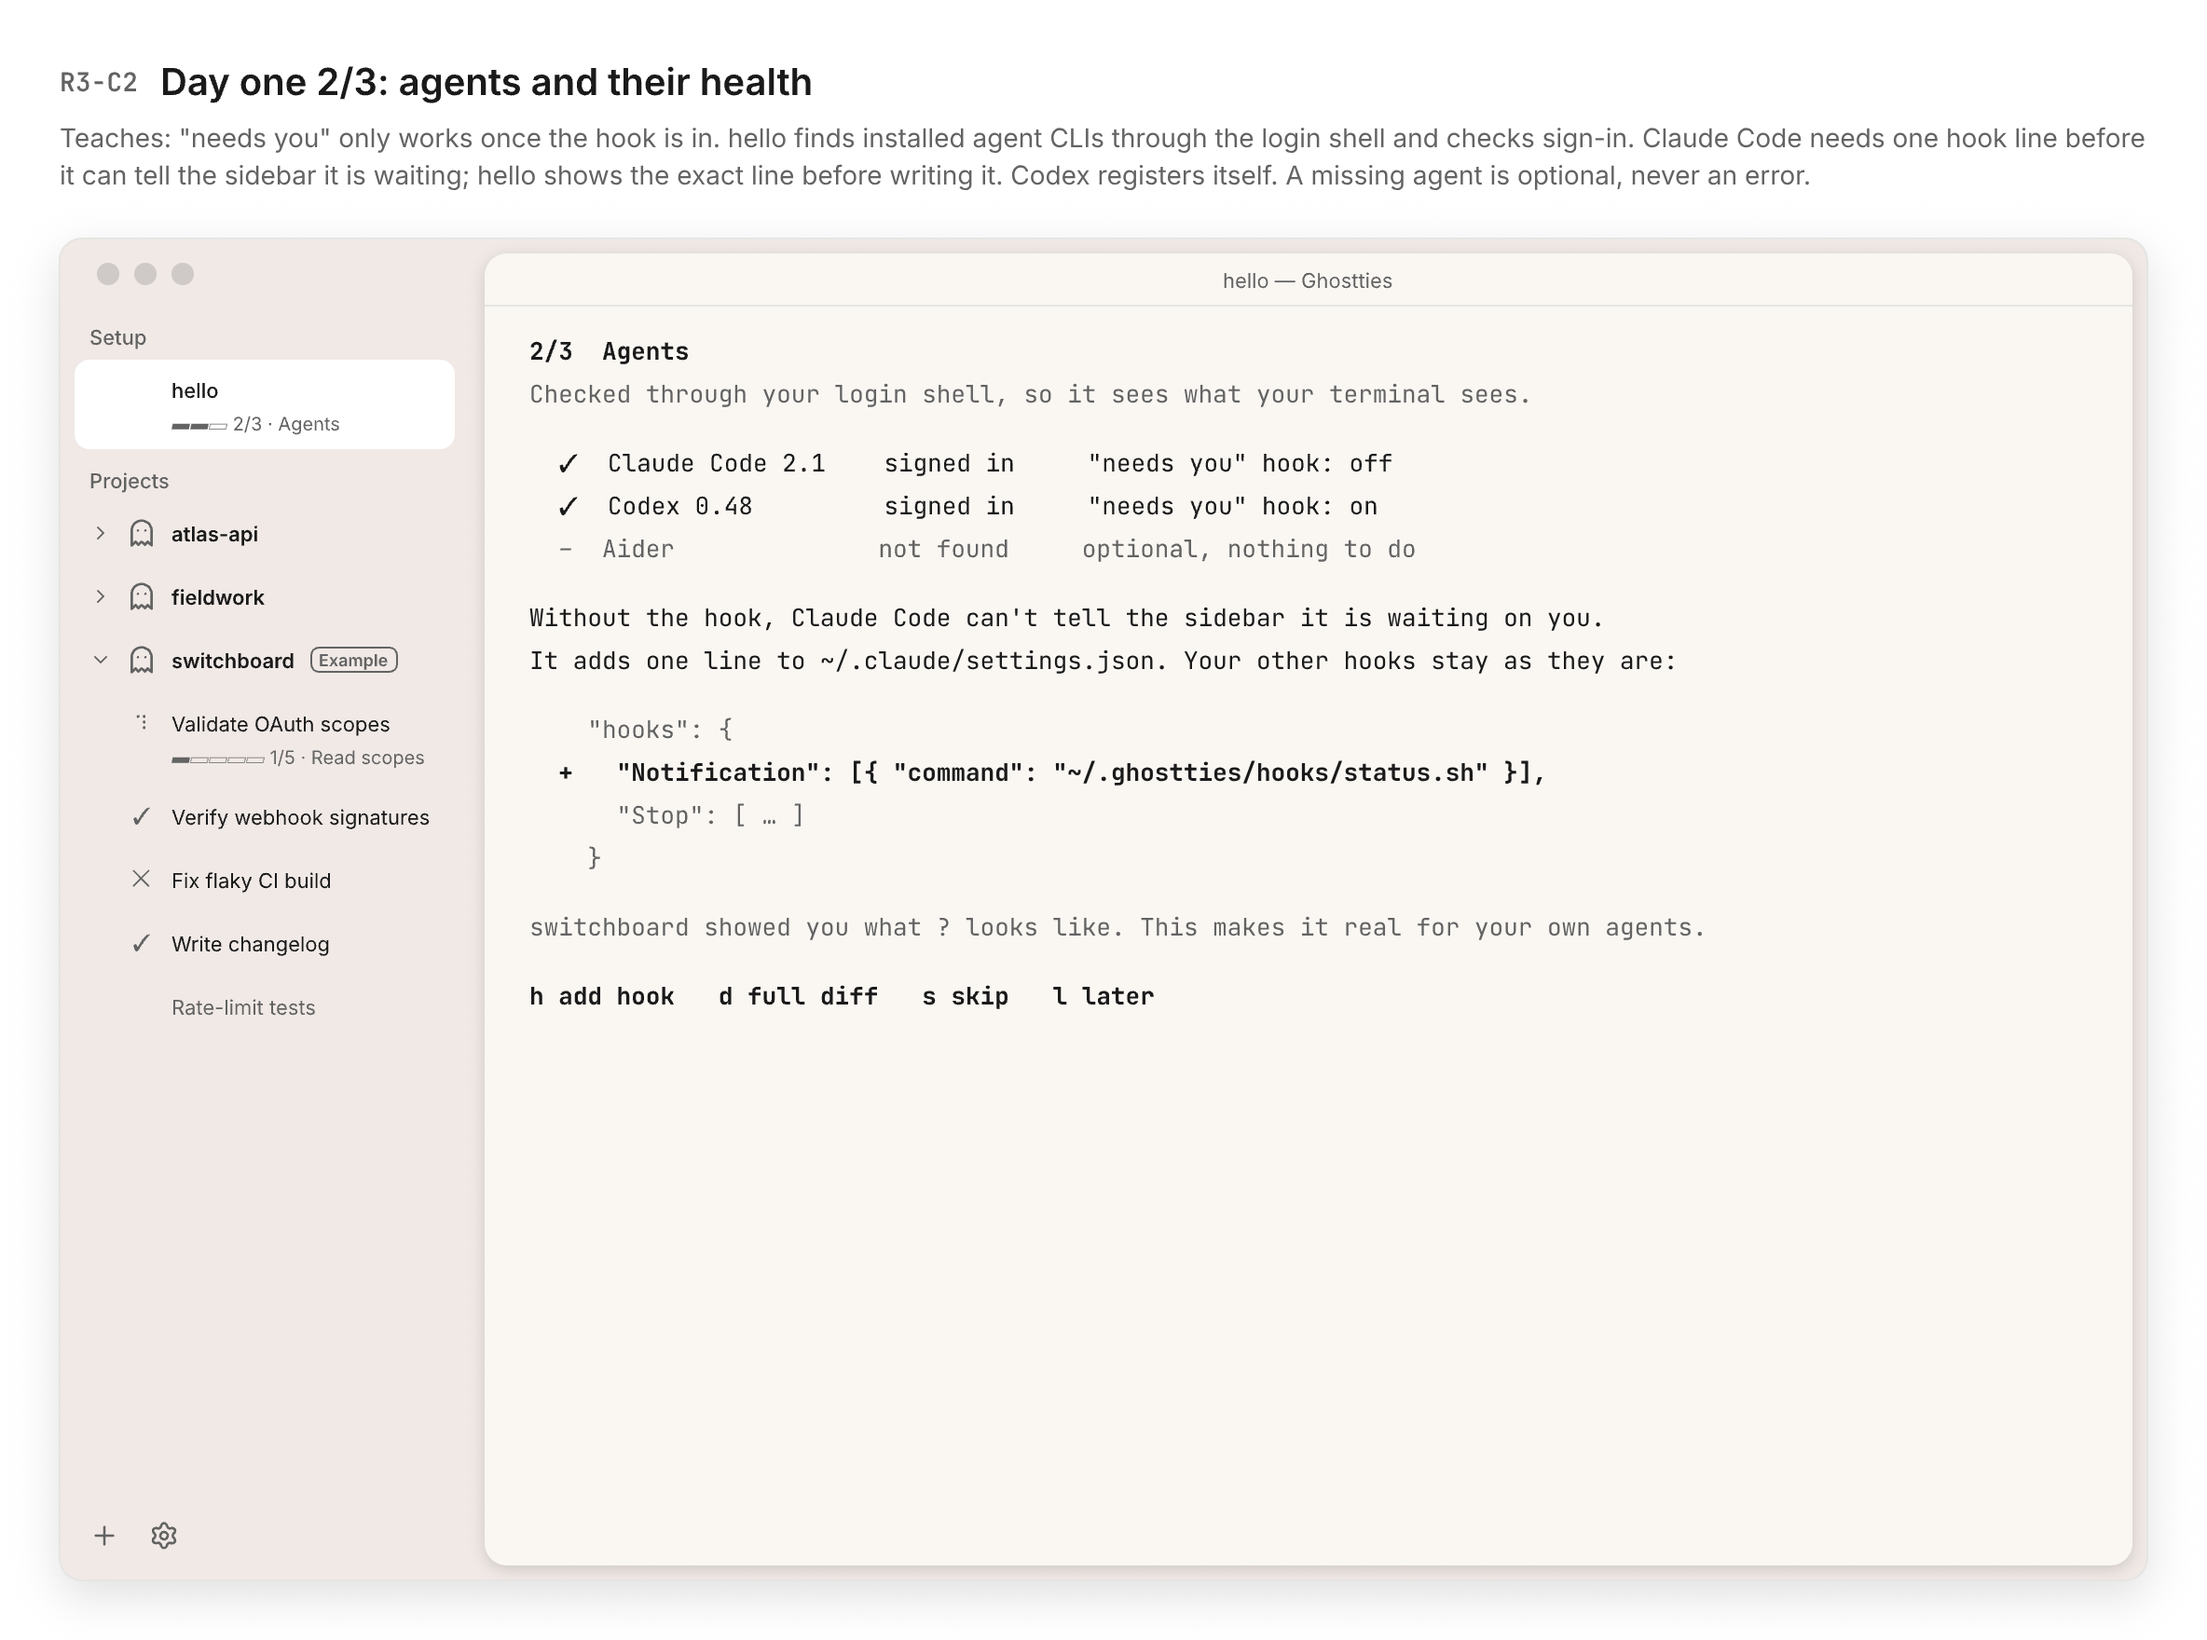
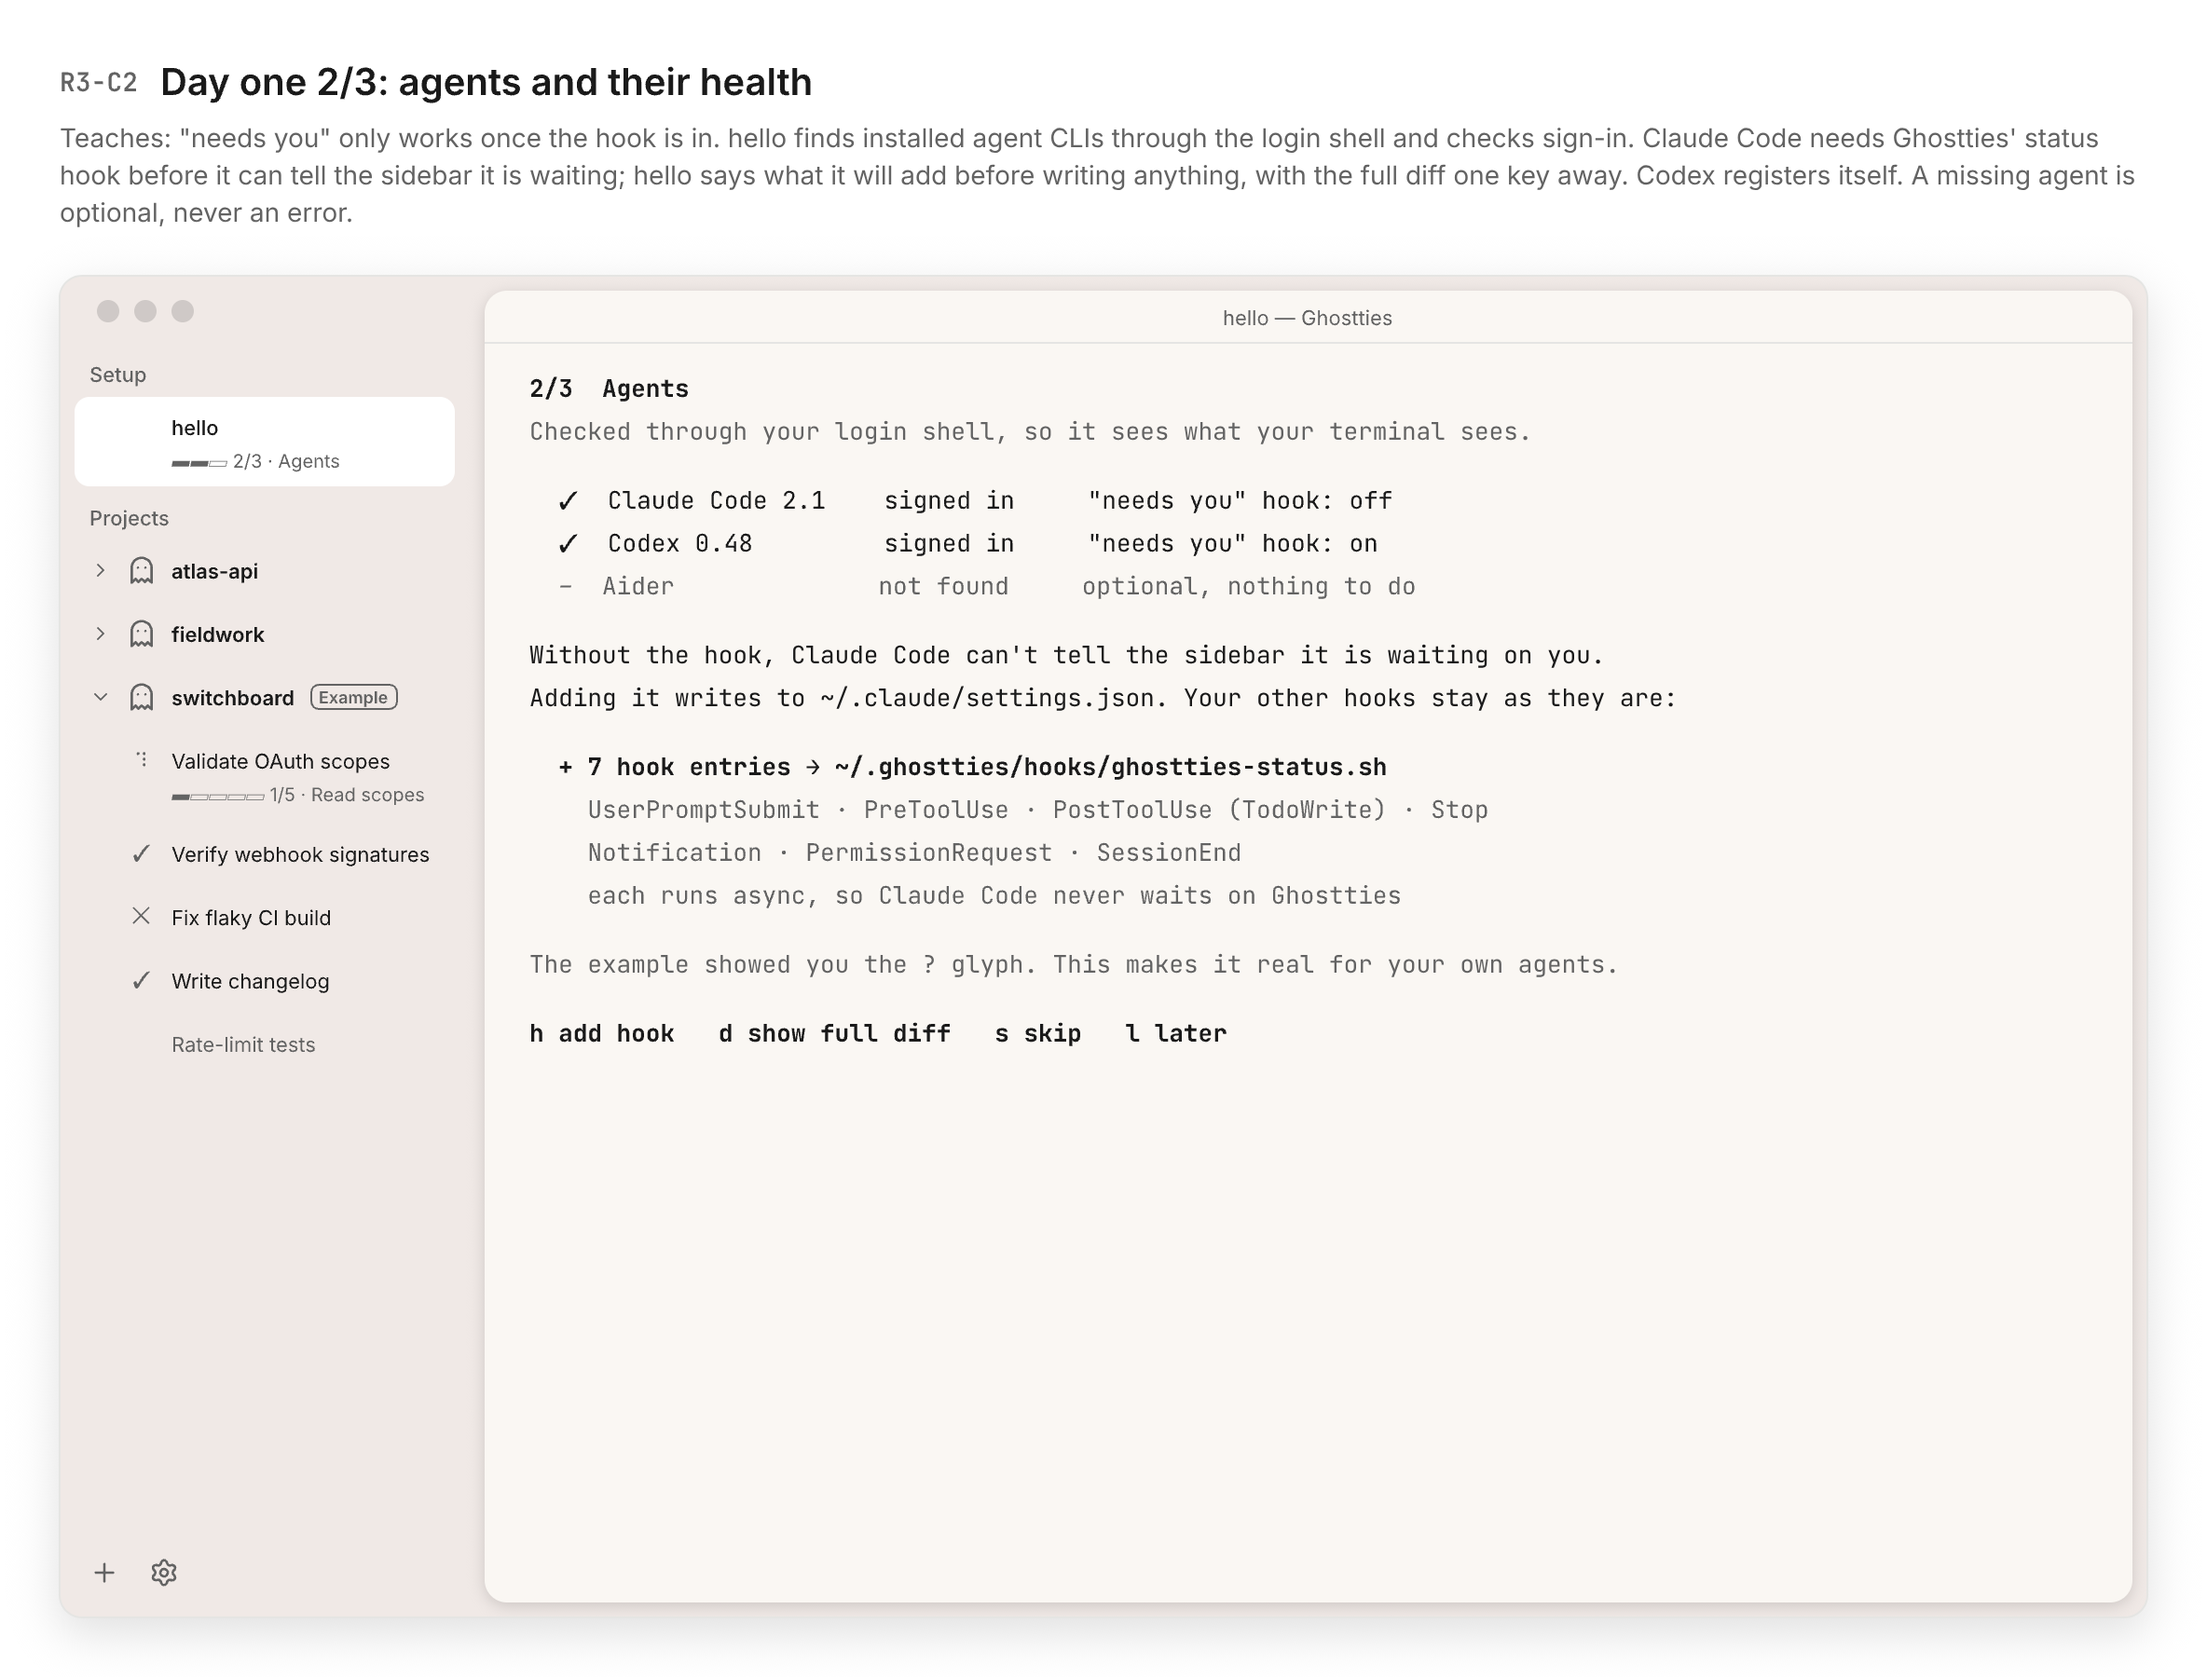
docs(design): onboarding round 3 review fixes
Prefs step confirms the shared Ghostty config Ghostties already reads and
imports only from iTerm2 / Terminal.app. Agents step shows the real hook:
7 async entries pointing at ghostties-status.sh. hello is started by the
app and re-run from its row or Settings > Setup, never a PATH command.
HANDOFF flags bundling gt in the .app as new build work.

Claude-Session: https://claude.ai/code/session_0165Ra31HMLYemsDY6vzHXMu

Changed region(s): [[0.0312, 0.0312, 0.9688, 0.625], [0.2188, 0.1875, 0.75, 0.625]]

diff --git a/docs/design/onboarding/HANDOFF.md b/docs/design/onboarding/HANDOFF.md
@@ -56,14 +56,18 @@ Same source file as round 2 (`onboarding-round2-demo-project.pen`), new "Round 3
 
 Frames:
 - 01–03 R3-A launch cinematic, 1.8s, first launch only: the ghost rises and the wordmark types in (A1), the ghost flies to the sidebar and lands as switchboard's icon while its rows cascade in (A2), hand-off to hello with input live (A3). Any key or click skips to A3. With Reduce Motion on, A3 is reached by a 150ms crossfade. No sound
-- 04–05 R3-B terminal host: hello runs as a real session row under "Setup", started by the app from a binary inside the .app (no PATH install). It looks around first, then asks you to confirm
+- 04–05 R3-B terminal host: hello runs as a real session row under "Setup", started by the app itself (no PATH command). You run it again from that row or Settings › Setup. It looks around first, then asks you to confirm
 - 06–07 R3-B native host: the same steps in a centered sheet, at the centered-modal scale
 - 08 R3-B verdict
-- 09–11 R3-C day one, hosted in hello: repos (found on disk, picked, previewed in the sidebar), agents (login-shell detection, sign-in, the Claude Code "needs you" hook shown as a one-line diff before it's written), prefs (copied from Ghostty, iTerm2 or Terminal; the originals are never edited). switchboard stays in the sidebar throughout. Skip and Later on every step
+- 09–11 R3-C day one, hosted in hello: repos (found on disk, picked, previewed in the sidebar), agents (login-shell detection, sign-in, the Claude Code "needs you" hook: +7 hook entries pointing at `ghostties-status.sh`, with the full diff one key away), prefs (Ghostties already reads your Ghostty config, so that's just confirmed; the real import is from iTerm2 or Terminal.app, and the originals are never edited). switchboard stays in the sidebar throughout. Skip and Later on every step
 - 12 R3-D setup across sessions: notifications (session 2, on the row), appearance (session ~5, sidebar footer), keybinds and the embedded browser (later). Each one is a single line tied to a moment that just happened. Progress is a "Setup n/7" count in the sidebar footer, which opens the hello list
 - 13 R3-E funnel: steps 9–21 added on top of round 2's 1–8, still counted on this Mac only
 
 Recommendation: **host hello in the terminal.** It shows the product on day one, and the same row is where later setup comes back, so day one and week three are one system. Settings › Setup gives mouse and VoiceOver users a native version of the same list. hello is scripted, not an LLM, so it works before any agent is found and costs nothing to run.
+
+Build note: hosting hello in the terminal means shipping its binary inside the .app. That is new build work: today `gt` only exists by symlinking from a repo checkout (`scripts/install-gt.sh`).
+
+"Sound fundamentals" in Sean's brief meant solid basics, not audio. No sound work is planned.
 
 Rules carried into the frames: only one ask at a time, so the example's live agent waits to reach "needs you" until hello is done or set aside. Terracotta stays reserved for waiting, so hello uses ink only.
 
